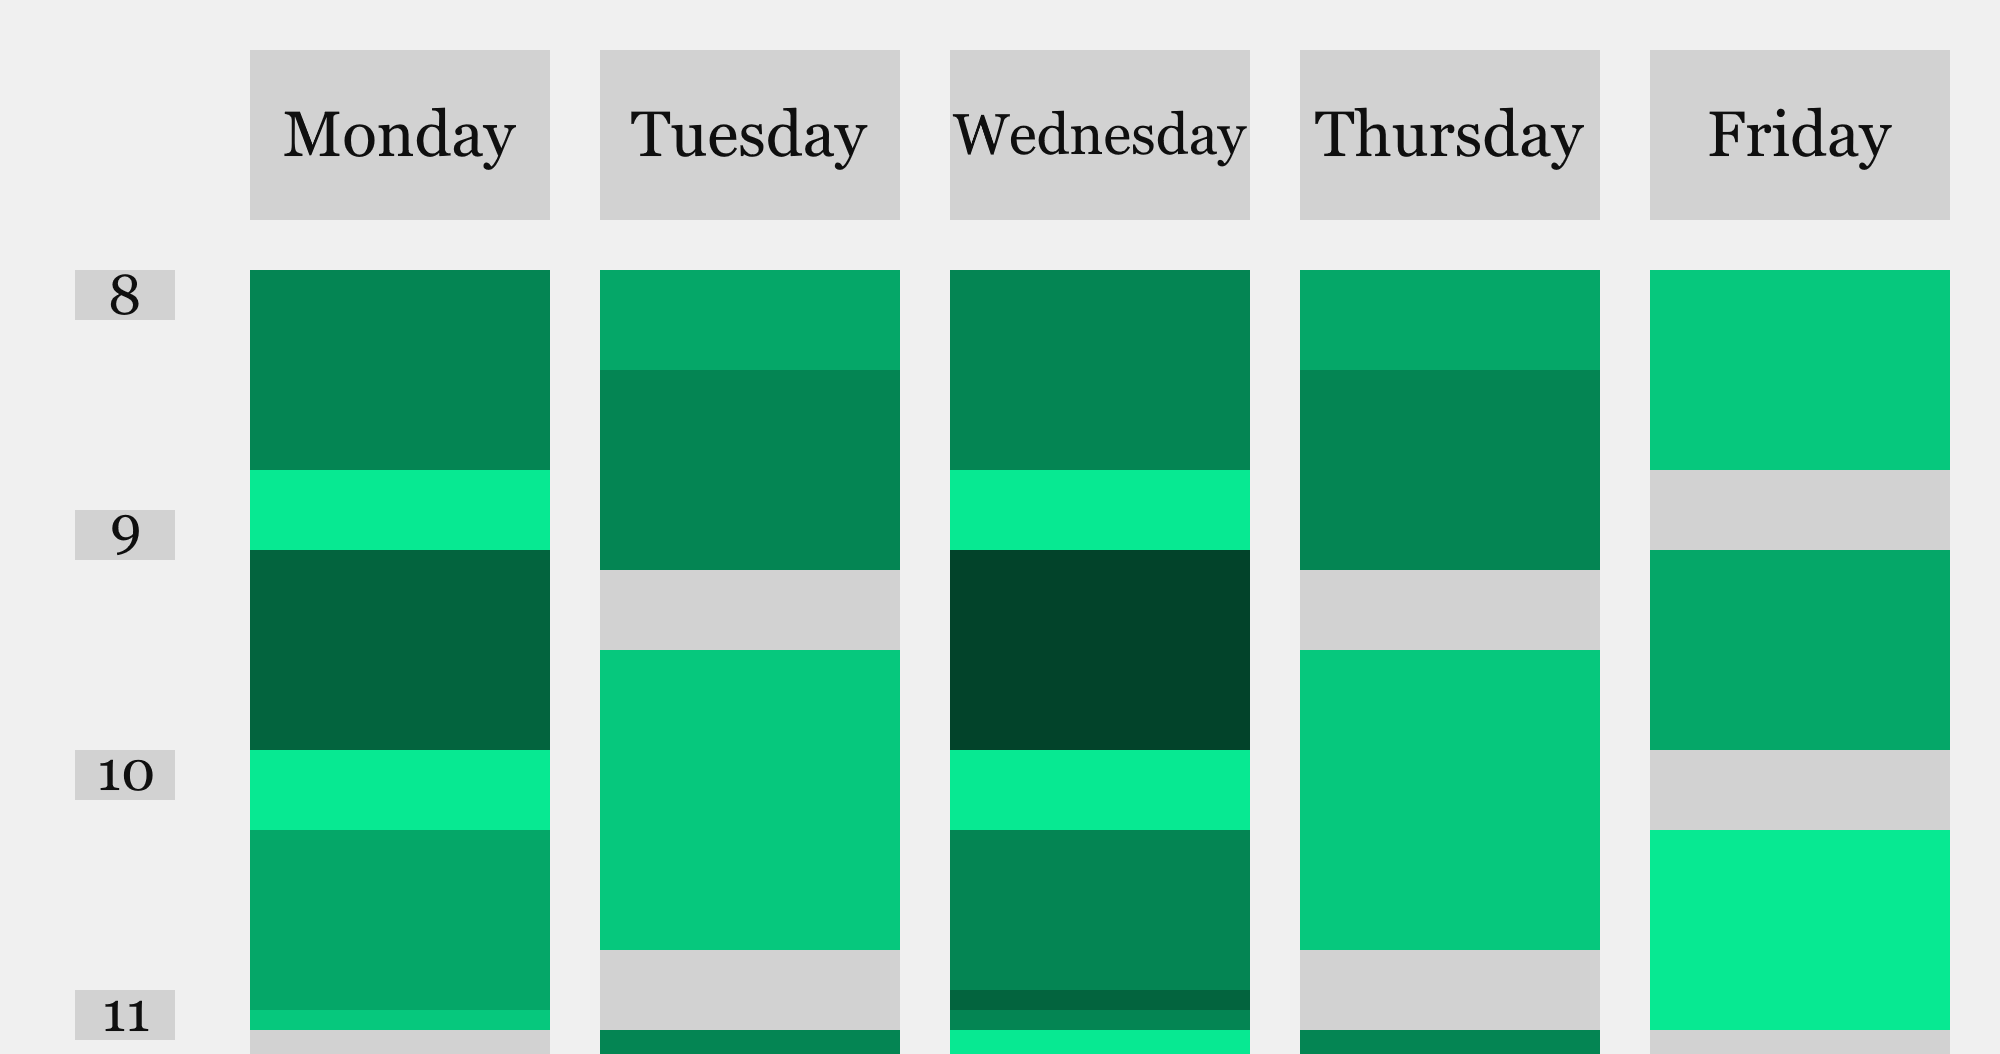
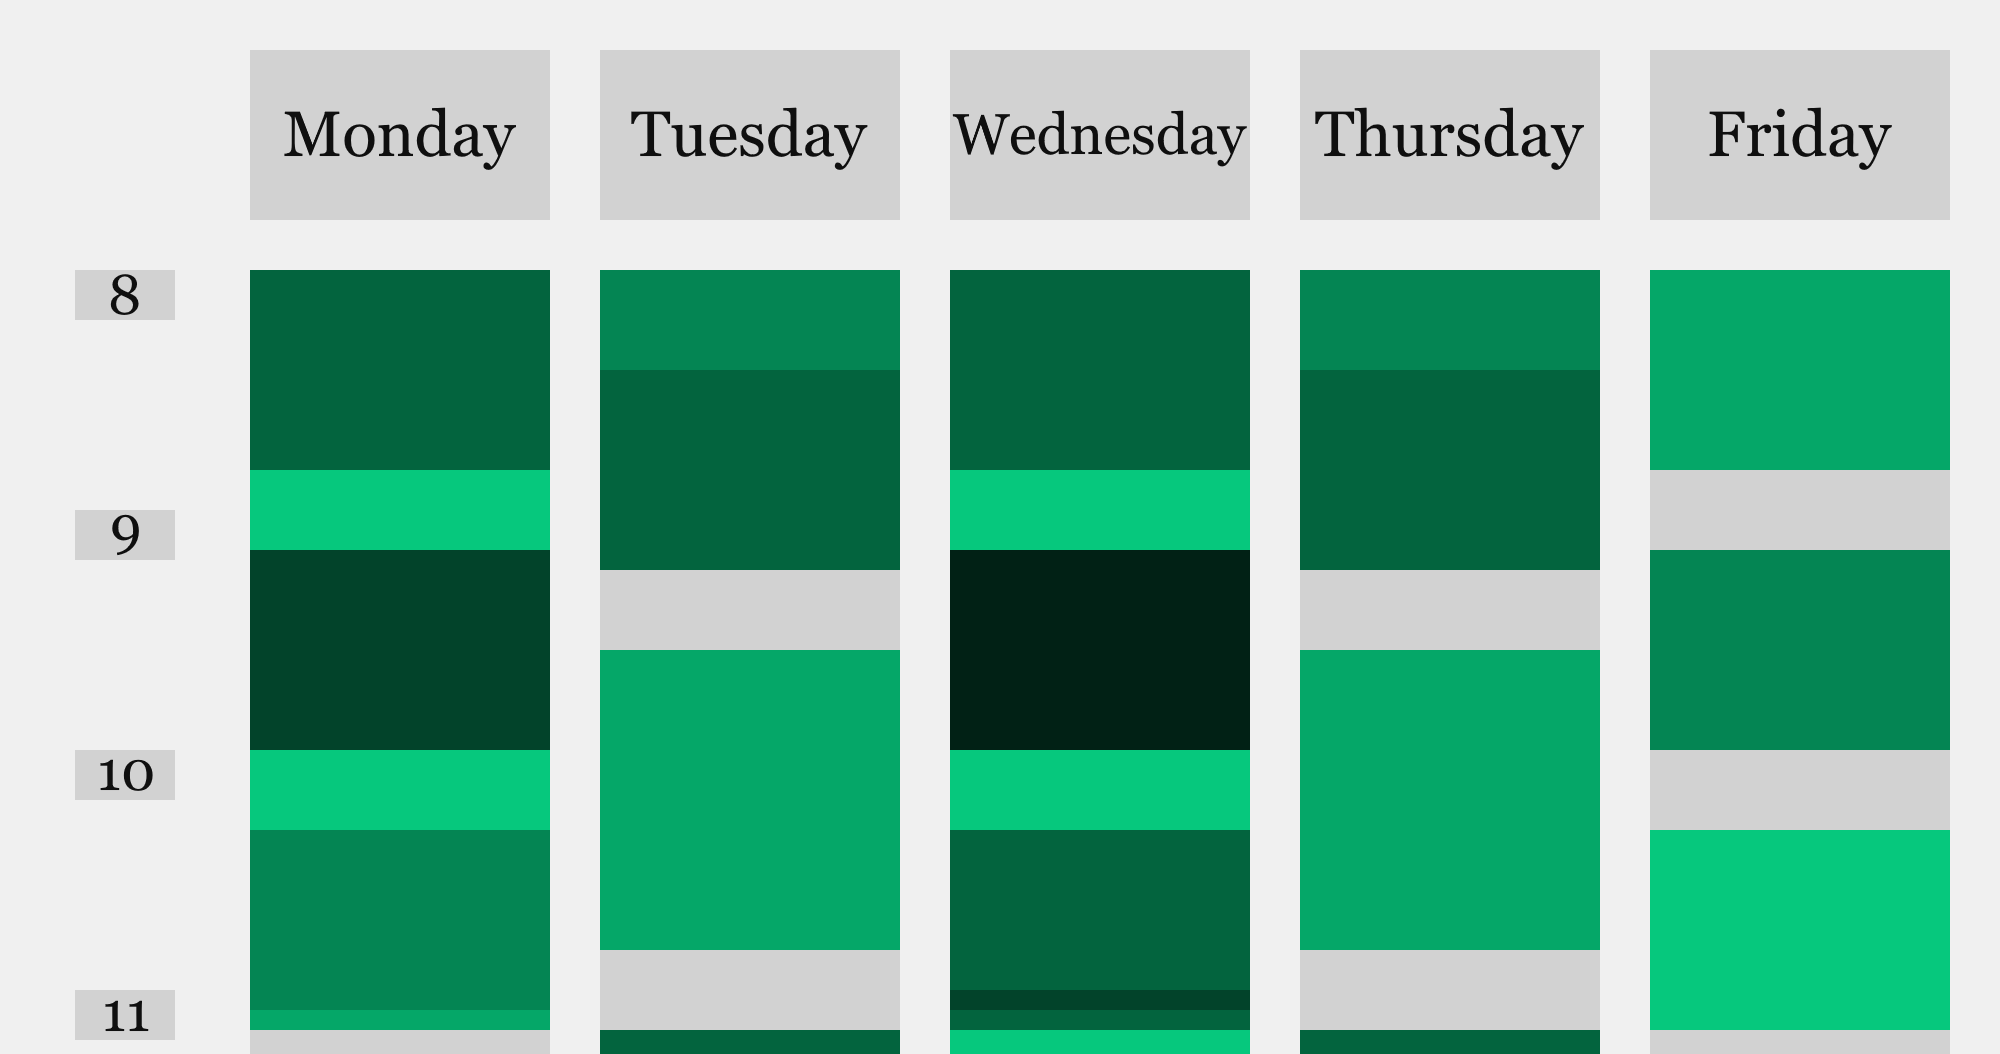
Update The Average Semester page's colors, and changed checkboxes to buttons
Switched the checkboxes in The Average Semester to Buttons
Fixed a bug where the light mode Average Semester colors weren't correct
Updated lightmode Average Semester thumbnail to be more accurate to the updated color scheme
Updated The Average Semester buttons to be centered
Updated CSS of the buttons to match the existing CSS of the website better

diff --git a/assets/js/average-semester-controls.js b/assets/js/average-semester-controls.js
@@ -3,7 +3,7 @@
 
 
 
-const container = document.getElementById("allButtons");
+const container_top = document.getElementById("TopRow");
 
 //
 // Initialize Heatmap Button
@@ -27,7 +27,7 @@ async function toggleHeatmap(isActive) {
     await render();
 }
 
-container.appendChild(heatmap_button);
+container_top.appendChild(heatmap_button);
 
 
 
@@ -43,16 +43,17 @@ select_all_button.addEventListener("click", function() {
 
 async function selectAll() {
     for (let i = 1; i <= schedule_directories.length; i++) {
-        const checkbox = document.getElementById(`image${i}`);
-        if (!checkbox.checked) {
-            checkbox.checked = true;
+        const button = document.getElementById(`image${i}`);
+
+        if (!button.classList.contains("selected")) {
+            button.classList.add("selected");
             await updateSelectedSchedules(i, true);
         }
     }
     //No need to call render since it is called in updateSelectedSchedules
 }
 
-container.appendChild(select_all_button);
+container_top.appendChild(select_all_button);
 
 
 //
@@ -70,18 +71,19 @@ async function deselectAll() {
     selected_schedules = [];
 
     for (let i = 1; i <= schedule_directories.length; i++) {
-        const checkbox = document.getElementById(`image${i}`);
-        checkbox.checked = false;
+        const button = document.getElementById(`image${i}`);
+        if (button.classList.contains("selected")) {
+            button.classList.remove("selected");
+        }
     }
 
     await render();
 }
-
-container.appendChild(deselect_all_button);
-container.appendChild(document.createElement("br"));
+container_top.appendChild(deselect_all_button);
 
 
-//Initialize Schedule Checkboxes
+//Initialize Schedule Buttons
+const container_bottom = document.getElementById("BottomRow");
 //1D Array, stores which schedules are selected (i.e [1,2,4])
 let selected_schedules = [];
 
@@ -93,42 +95,45 @@ const schedule_names =  ["Freshman Fall", "Freshman Spring",
 ]
 
                     
-//Generate checkboxes and put them inside of "allButtons"
+//Generate buttons and put them inside of "allButtons"
 for (let i = 1; i <= schedule_directories.length; i++) {
-    const a_checkbox = document.createElement("input");
+    const a_button = document.createElement("input");
 
-    a_checkbox.type = "checkbox";
-    a_checkbox.id = `image${i}`;
-    a_checkbox.addEventListener("change", function() {
-        updateSelectedSchedules(i, a_checkbox.checked);
+    a_button.type = "button";
+    a_button.id = `image${i}`;
+    a_button.addEventListener("click", function() {
+        const isSelected = a_button.classList.toggle("selected");
+        updateSelectedSchedules(i, isSelected);
     });
 
-    const label = document.createElement("label");
-    label.htmlFor = `image${i}`;
-    label.textContent = schedule_names[i-1];
+    a_button.value = schedule_names[i-1];
 
-    container.appendChild(a_checkbox);
-    container.appendChild(label);
-    
-    if (i % 4 == 0) {
-        container.appendChild(document.createElement("br"));
-    }
+    container_bottom.appendChild(a_button);
 }
 
 
+//Todo WIP
+//const button_colors = [[215,68,96],[255,158,7],[255,232,61],[121,206,18],[0,183,235],[76,103,255],[174,76,255],[255,109,158]];
+
 
 //Updates list of schedules everytime a checkbox is clicked
-async function updateSelectedSchedules(scheduleNumber, isChecked) {
-    if (isChecked) {
+async function updateSelectedSchedules(scheduleNumber, isSelected) {
+    const button = document.getElementById(`image${scheduleNumber}`);
+
+    if (isSelected) {
         selected_schedules.push(scheduleNumber);
+        button.classList.add("selected");
+        //Todo wip
+        //button.style.backgroundColor = `rgb(${button_colors[scheduleNumber-1][0]}, ${button_colors[scheduleNumber-1][1]}, ${button_colors[scheduleNumber-1][2]})`;
     }
     else {
         const index = selected_schedules.indexOf(scheduleNumber);
         if (index !== -1) {
             selected_schedules.splice(index, 1);
         }
+        //button.style.backgroundColor = `rgb(49,49,50)`;
     }
 
-    await updateLayerCount(scheduleNumber, isChecked);
+    await updateLayerCount(scheduleNumber, isSelected);
     await render();
 }

diff --git a/assets/js/average-semester-render.js b/assets/js/average-semester-render.js
@@ -62,7 +62,6 @@ async function renderHeatmap() {
     //Pre-compute the blended heatmap based on pixel_layer_count_array
     const colors = [];
     if (currentTheme === 'dark') {
-        console.log("Dark Mode");
         for (let c = 0; c < max_layers; c++) {
             let this_red   = (RED   / max_layers) * (c+1);
             let this_green = (GREEN / max_layers) * (c+1);
@@ -72,17 +71,17 @@ async function renderHeatmap() {
         }
     }
     else {
-        console.log("Light Mode");
         for (let c = 0; c < max_layers; c++) {
-            let this_red   = (RED   / max_layers) * ((max_layers - c)+1);
-            let this_green = (GREEN / max_layers) * ((max_layers - c)+1);
-            let this_blue  = (BLUE  / max_layers) * ((max_layers - c)+1);
+            let reverse_index = max_layers - 1 - c;
+
+            let this_red   = (RED   / max_layers) * (reverse_index + 1);
+            let this_green = (GREEN / max_layers) * (reverse_index + 1);
+            let this_blue  = (BLUE  / max_layers) * (reverse_index + 1);
 
             colors[c] = [this_red, this_green, this_blue];
         }
     }
 
-    console.log("Colors: ", colors);
 
     for (let i = 0; i < pixel_layer_count_array.length; i++) {
         const count = pixel_layer_count_array[i];

diff --git a/assets/css/style.scss b/assets/css/style.scss
@@ -8,14 +8,14 @@ html, body {
 }
 
 .fonts-loaded {
-  a, span, p, .buttons input, .buttons label { font-family:"Nunito Sans", 'Lucida Sans', sans-serif; }
+  a, span, p, .top-buttons input, .bottom-buttons input { font-family:"Nunito Sans", 'Lucida Sans', sans-serif; }
   h1, h2, h3 { font-family:"Lato", Helvetica, sans-serif; }
   mark { font-family:'Righteous', sans-serif; }
 }
 
 a { text-decoration:none; }
-a, span, p, h1, h2, h3, i, .buttons input, .buttons label { color:#3A241A; }
-a, span, p, .buttons input, .buttons label { font-family:'Lucida Sans', sans-serif; }
+a, span, p, h1, h2, h3, i, .top-buttons input, .bottom-buttons input { color:#3A241A; }
+a, span, p, .top-buttons input, .bottom-buttons input { font-family:'Lucida Sans', sans-serif; }
 h1, h2, h3, mark {
   margin:0;
   font-family:Helvetica, sans-serif;

diff --git a/_sass/post.scss b/_sass/post.scss
@@ -139,6 +139,33 @@
   }
 }
 
+.top-buttons {
+  display: flex;
+  justify-content: center;
+  padding: 15px 30px;
+}
+
+.top-buttons input[type="button"] {
+  cursor: pointer;
+  font-size: 1.125rem;
+}
+
+.bottom-buttons {
+  display: grid;
+  grid-template-columns: repeat(4, minmax(0, 1fr));
+  gap: 15px;
+}
+
+.bottom-buttons input[type="button"] {
+  cursor: pointer;
+}
+
+.background {
+  width: 100%;
+  //max-width: 500px;
+  height: auto;
+}
+
 .theme-0 {
   background:hsl(50, 65%, 50%);
   &::before { border-color:transparent hsl(50, 65%, 50%) transparent transparent; } 

diff --git a/_sass/darkmode.scss b/_sass/darkmode.scss
@@ -36,6 +36,18 @@ svg { fill:#aaa; }
   svg { fill:$color-aqua; }
 }
 
+.top-buttons input[type="button"],
+.bottom-buttons input[type="button"] {
+  background-color:#313132;
+  color:#eee;
+  box-shadow: 0px 0px;
+  border-top-color: #545454;
+  border-left-color: #545454;
+  border-right-color: #545454;
+  border-bottom-color: #545454;
+}
+
+
 #contact{
   ul>li>a {
     &:hover{

diff --git a/_pages/Programming/average-semester.md b/_pages/Programming/average-semester.md
@@ -33,7 +33,8 @@ So I programmed the same functionality in Javascript! Here it is:
     <div class="body-text">
         <div class="container">
             
-            <div class="buttons" id="allButtons"></div>
+            <div class="top-buttons" id="TopRow"></div>
+            <div class="bottom-buttons" id="BottomRow"></div>
 
             <div class="schedule">
                 <img id="backgroundImage" class="background" src="/assets/img/Programming/average-semester/background.png"/>
